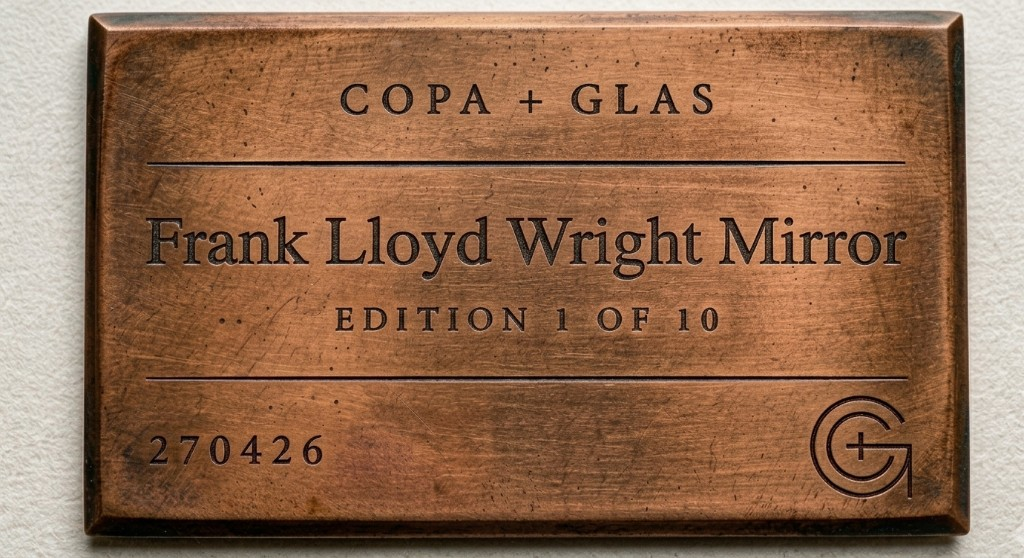
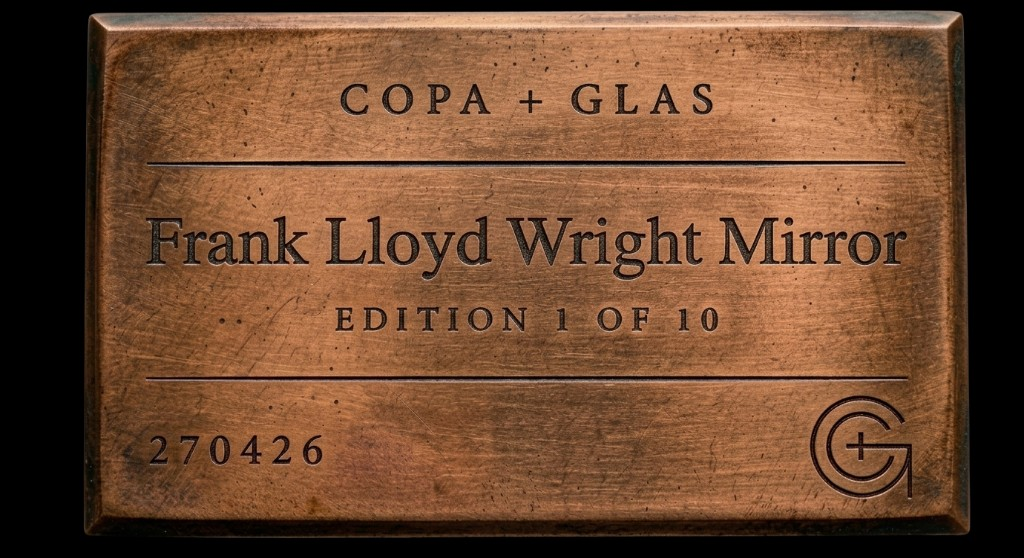
Update FLW Mirror plate image to black background version
Remove padding from contain images; container background transitions to
black when the edition plate is shown for a clean full-fill presentation.

Changed region(s): [[0.0, 0.0, 1.0, 1.0]]

diff --git a/app/product/[slug]/page.tsx b/app/product/[slug]/page.tsx
@@ -224,11 +224,13 @@ export default function ProductPage() {
             "
           >
             {/* Main image */}
-            <motion.div className="
+            <motion.div className={`
               relative aspect-[4/5] md:max-h-[calc(100vh-180px)] lg:max-h-[calc(100vh-220px)]
-              bg-muted mb-3 md:mb-4 overflow-hidden
+              mb-3 md:mb-4 overflow-hidden
               cursor-grab md:cursor-default touch-pan-y
-            ">
+              transition-colors duration-500
+              ${product.images[selectedImage].contain ? "bg-black" : "bg-muted"}
+            `}>
               <AnimatePresence mode="wait" initial={false}>
                 <motion.div
                   key={selectedImage}
@@ -247,7 +249,7 @@ export default function ProductPage() {
                     alt={`${product.name}, image ${selectedImage + 1} of ${product.images.length}`}
                     fill
                     sizes="(max-width: 768px) 100vw, 50vw"
-                    className={product.images[selectedImage].contain ? "object-contain p-8 md:p-12" : "object-cover"}
+                    className={product.images[selectedImage].contain ? "object-contain" : "object-cover"}
                     priority={selectedImage === 0}
                   />
                 </motion.div>
